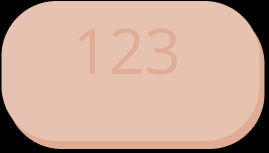
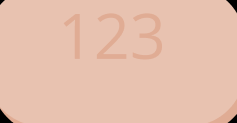
se corrigio codigo, se modificaron colores de los componentes, topbar y button. A las cards se le agregaron la imagen

diff --git a/src/components/medicine-container/targets/styles.module.scss b/src/components/medicine-container/targets/styles.module.scss
@@ -1,7 +1,9 @@
-.tarjeta {
-    width: 170px;
-    height: 170px;
-    border: solid rgba(128, 128, 128, 0.089) 2px;
+$border-target: #80808017;
+
+.target {
+    width: 200px;
+    height: 210px;
+    border: solid 2px $border-target;
     border-radius: 20px;
     display: flex;
     flex-direction: column;
@@ -11,10 +13,12 @@
     position: relative;
 }
 
-.radio3 {
+.radio {
     position: absolute;
-    margin-left: 65px;
-    margin-top: 50px;
+    margin-left: 64px;
+    margin-top: 60px;
+    -webkit-transform: scale(2);
+    padding: 60px;
 }
 
 .contFondo {
@@ -31,29 +35,31 @@
     align-items: center;
 }
 
-.font {
+h1 {
     font-size: 24px;
 }
 
 .imgPastilla {
-    width: 100%;
-    height: 40%;
-    border: solid pink 2px;
+    width: 90px;
+    height: 40px;
+    border-radius: 70px;
+    margin-left: 30px;
 }
 
-.radio2 {
+.containerInferior {
     display: flex;
     justify-content: center;
     align-items: center;
     height: 20%;
 }
 
-.gramos {
+p {
+    color: #4c8faa;
     width: 60px;
     height: 25px;
     display: flex;
     justify-content: center;
     align-items: center;
-    border: solid green 2px;
-    border-radius: 30px;
+    background: #94d3ec;
+    border-radius: 10px;
 }

diff --git a/src/components/medicine-container/targets/index.js b/src/components/medicine-container/targets/index.js
@@ -1,26 +1,25 @@
 import React from 'react';
 import styles from './styles.module.scss';
+import atripla from '../../../assets/atripla.png';
 
-class Tarjetas extends React.Component {
+class Targets extends React.Component {
   render() {
     return (
-      <div className={styles.tarjeta}>
+      <div className={styles.target}>
         <div className={styles.contFondo}>
           <div className={styles.title}>
-            <h1 className={styles.font}>ATRIPLA</h1>
+            <h1>ATRIPLA</h1>
           </div>
           <hr />
-          <div className={styles.imgPastilla}>
-            <img src="" alt="" />
-          </div>
+            <img className={styles.imgPastilla} src={atripla} alt="medicineImagen" />
         </div>
-        <div className={styles.radio2}>
-          <p className={styles.gramos}>100 mg</p>
+        <div className={styles.containerInferior}>
+          <p>100 mg</p>
         </div>
-        <input type="radio" name="card" id="1" className={styles.radio3} />
+        <input type="checkbox" name="checkbox" className={styles.radio} />
       </div>
     );
   }
 }
 
-export default Tarjetas;
+export default Targets;

diff --git a/src/components/medicine-container/index.js b/src/components/medicine-container/index.js
@@ -1,22 +1,26 @@
 import React from 'react';
 
-import Tarjetas from './targets';
+import Targets from './targets';
 import styles from './styles.module.scss';
 
-function ContainerPastis() {
-
-  return (
-    <form className={styles.contPastis}>
-      <Tarjetas />
-      <Tarjetas />
-      <Tarjetas />
-      <Tarjetas />
-      <Tarjetas />
-      <Tarjetas />
-      <Tarjetas />
-      <Tarjetas />
-    </form>
-  );
+class ContainerPastis extends React.Component {
+  render() {
+    return (
+      <div>
+        <h4>{this.props.title}</h4>
+        <form className={styles.contPastis}>
+          <Targets />
+          <Targets />
+          <Targets />
+          <Targets />
+          <Targets />
+          <Targets />
+          <Targets />
+          <Targets />
+        </form>
+      </div>
+    );
+  }
 }
 
 export default ContainerPastis;

diff --git a/src/components/reusable-components/searcher/form/styles.module.scss b/src/components/reusable-components/searcher/form/styles.module.scss
@@ -1,8 +1,9 @@
+$color-gray: #d8d2d2;
+
 .containerBuscador {
   width: 100%;
   height: 60px;
   margin: 0;
-  margin-top: -10px;
   padding: 0;
   display: flex;
   align-items: center;
@@ -14,8 +15,8 @@
   width: 50px;
   height: 70px;
   margin: 0;
-  background-color: rgb(216, 210, 210);
-  border: solid rgb(216, 210, 210) 2px;
+  background-color: $color-gray;
+  border: solid 2px $color-gray;
   border-radius: 15px 0px 0px 15px;
   box-sizing: border-box;
 }
@@ -34,8 +35,8 @@
   height: 70px;
   padding: 0;
   margin: 0;
-  background-color: rgb(216, 210, 210);
-  border: solid rgb(216, 210, 210) 2px;
+  background-color: $color-gray;
+  border: solid 2px $color-gray;
   border-radius: 0px 15px 15px 0px;
   font-size: 20px;
   padding-inline-start: 20px;

diff --git a/src/components/reusable-components/topbar/styles.module.scss b/src/components/reusable-components/topbar/styles.module.scss
@@ -1,7 +1,35 @@
+$color-blue: #3f3fca;
+
 .nav {
-    width: 100%;
-    height: 80px;
-    background-color: blue;
-    display: flex;
-    justify-content: space-between;
+  width: 100%;
+  height: 80px;
+  background-color: $color-blue;
+  display: flex;
+  justify-content: space-between;
+}
+
+.iconBack {
+  width: 50px;
+  margin-top: 10px;
+  height: 60px;
+}
+
+.button {
+  background-color: $color-blue;
+  border: 0;
+  margin: 0;
+  margin-left: 2vh;
+  width: 80px;
+  height: 70px;
+  display: flex;
+  justify-content: center;
+  align-items: center;
+}
+
+.iconLogo {
+  margin-right: 4vh;
+  width: 60px;
+  height: 84px;
+  display: flex;
+  justify-content: center;
 }

diff --git a/src/components/reusable-components/topbar/index.js b/src/components/reusable-components/topbar/index.js
@@ -1,14 +1,17 @@
 import React from 'react';
 import styles from './styles.module.scss';
-import images from '../../../assets';
-import Logo from './logo';
-import Back from './back';
+import logo from '../../../assets/logo.png';
+import back from '../../../assets/back.png';
 
 function Topbar() {
   return (
     <nav className={styles.nav}>
-      <Back assets={images[0].url} />
-      <Logo assets={images[1].url} />
+      <button className={styles.button}>
+        <img src={back} className={styles.iconBack} alt="back" />
+      </button>
+      <div>
+        <img src={logo} className={styles.iconLogo} alt="logo" />
+      </div>
     </nav>
   );
 }

diff --git a/src/components/vistas/medicine-selector/index.js b/src/components/vistas/medicine-selector/index.js
@@ -13,8 +13,8 @@ function MedicineSelector() {
     <div className={styles.containerPrincipal}>
       <Topbar />
       <div className={styles.containerTwo}>
-        <Searcher contBuscador="¿Que medicamentos estas buscando?" title="MEDICAMENTOS UTILIZADOS" />
-        <ContainerPastis />
+        <Searcher placeholder="¿Qué medicamentos estás buscando?" />
+        <ContainerPastis title="MEDICAMENTOS MÁS UTILIZADOS" />
       </div>
       <Link to="/tablet">
         {} {/*ACA VA LA VISTA SIGUIENTE*/}

diff --git a/src/components/reusable-components/button/styles.module.scss b/src/components/reusable-components/button/styles.module.scss
@@ -1,16 +1,16 @@
+$color-blue: #3f3fca;
+
 .button {
-  background-color: blue;
+  background-color: $color-blue;
   color: white;
   font-size: 30px;
-  border-radius: 4px;
-  border-color: blue;
-  width: 250px;
+  border-radius: 20px;
+  width: 300px;
   height: 64px;
   transition: all 0.1s;
 
   &:hover {
     transform: translateY(-4px);
-    box-shadow: 0 30px 30px #94dbf8;
     cursor: pointer;
   }
 }

diff --git a/src/components/reusable-components/searcher/form/index.js b/src/components/reusable-components/searcher/form/index.js
@@ -10,7 +10,7 @@ class Form extends React.Component {
         <div className={styles.containerIcon}>
           <img src={lupa} className={styles.icon} alt="lupa" />
         </div>
-        <input type="text" placeholder={this.props.contBuscador} className={styles.buscador} />
+        <input type="text" placeholder={this.props.placeholder} className={styles.buscador} />
       </form>
     );
   }

diff --git a/src/components/reusable-components/searcher/index.js b/src/components/reusable-components/searcher/index.js
@@ -6,10 +6,9 @@ class Searcher extends React.Component {
     render() {
         return (
             <div className={styles.contBuscador}>
-                <Form contBuscador={this.props.contBuscador} />
-                <h4>{this.props.title}</h4>
+                <Form placeholder={this.props.placeholder} />
             </div>
-        )
+        );
     }
 }
 

diff --git a/src/components/medicine-container/styles.module.scss b/src/components/medicine-container/styles.module.scss
@@ -1,9 +1,14 @@
 .contPastis {
-    width: 776px;
-    height: 388px;
+    width: 900px;
+    height: 500px;
     display: flex;
     overflow: auto;
     flex-wrap: wrap;
     justify-content: center;
     align-items: center;
+}
+h4 {
+    margin-bottom: 80px;
+    font-size: 18px;
+    color: #808080ef;
 }

diff --git a/src/components/reusable-components/searcher/styles.module.scss b/src/components/reusable-components/searcher/styles.module.scss
@@ -1,4 +1,4 @@
 .contBuscador {
     width: 760px;
-    height: 100px;
+    height: 60px;
 }
